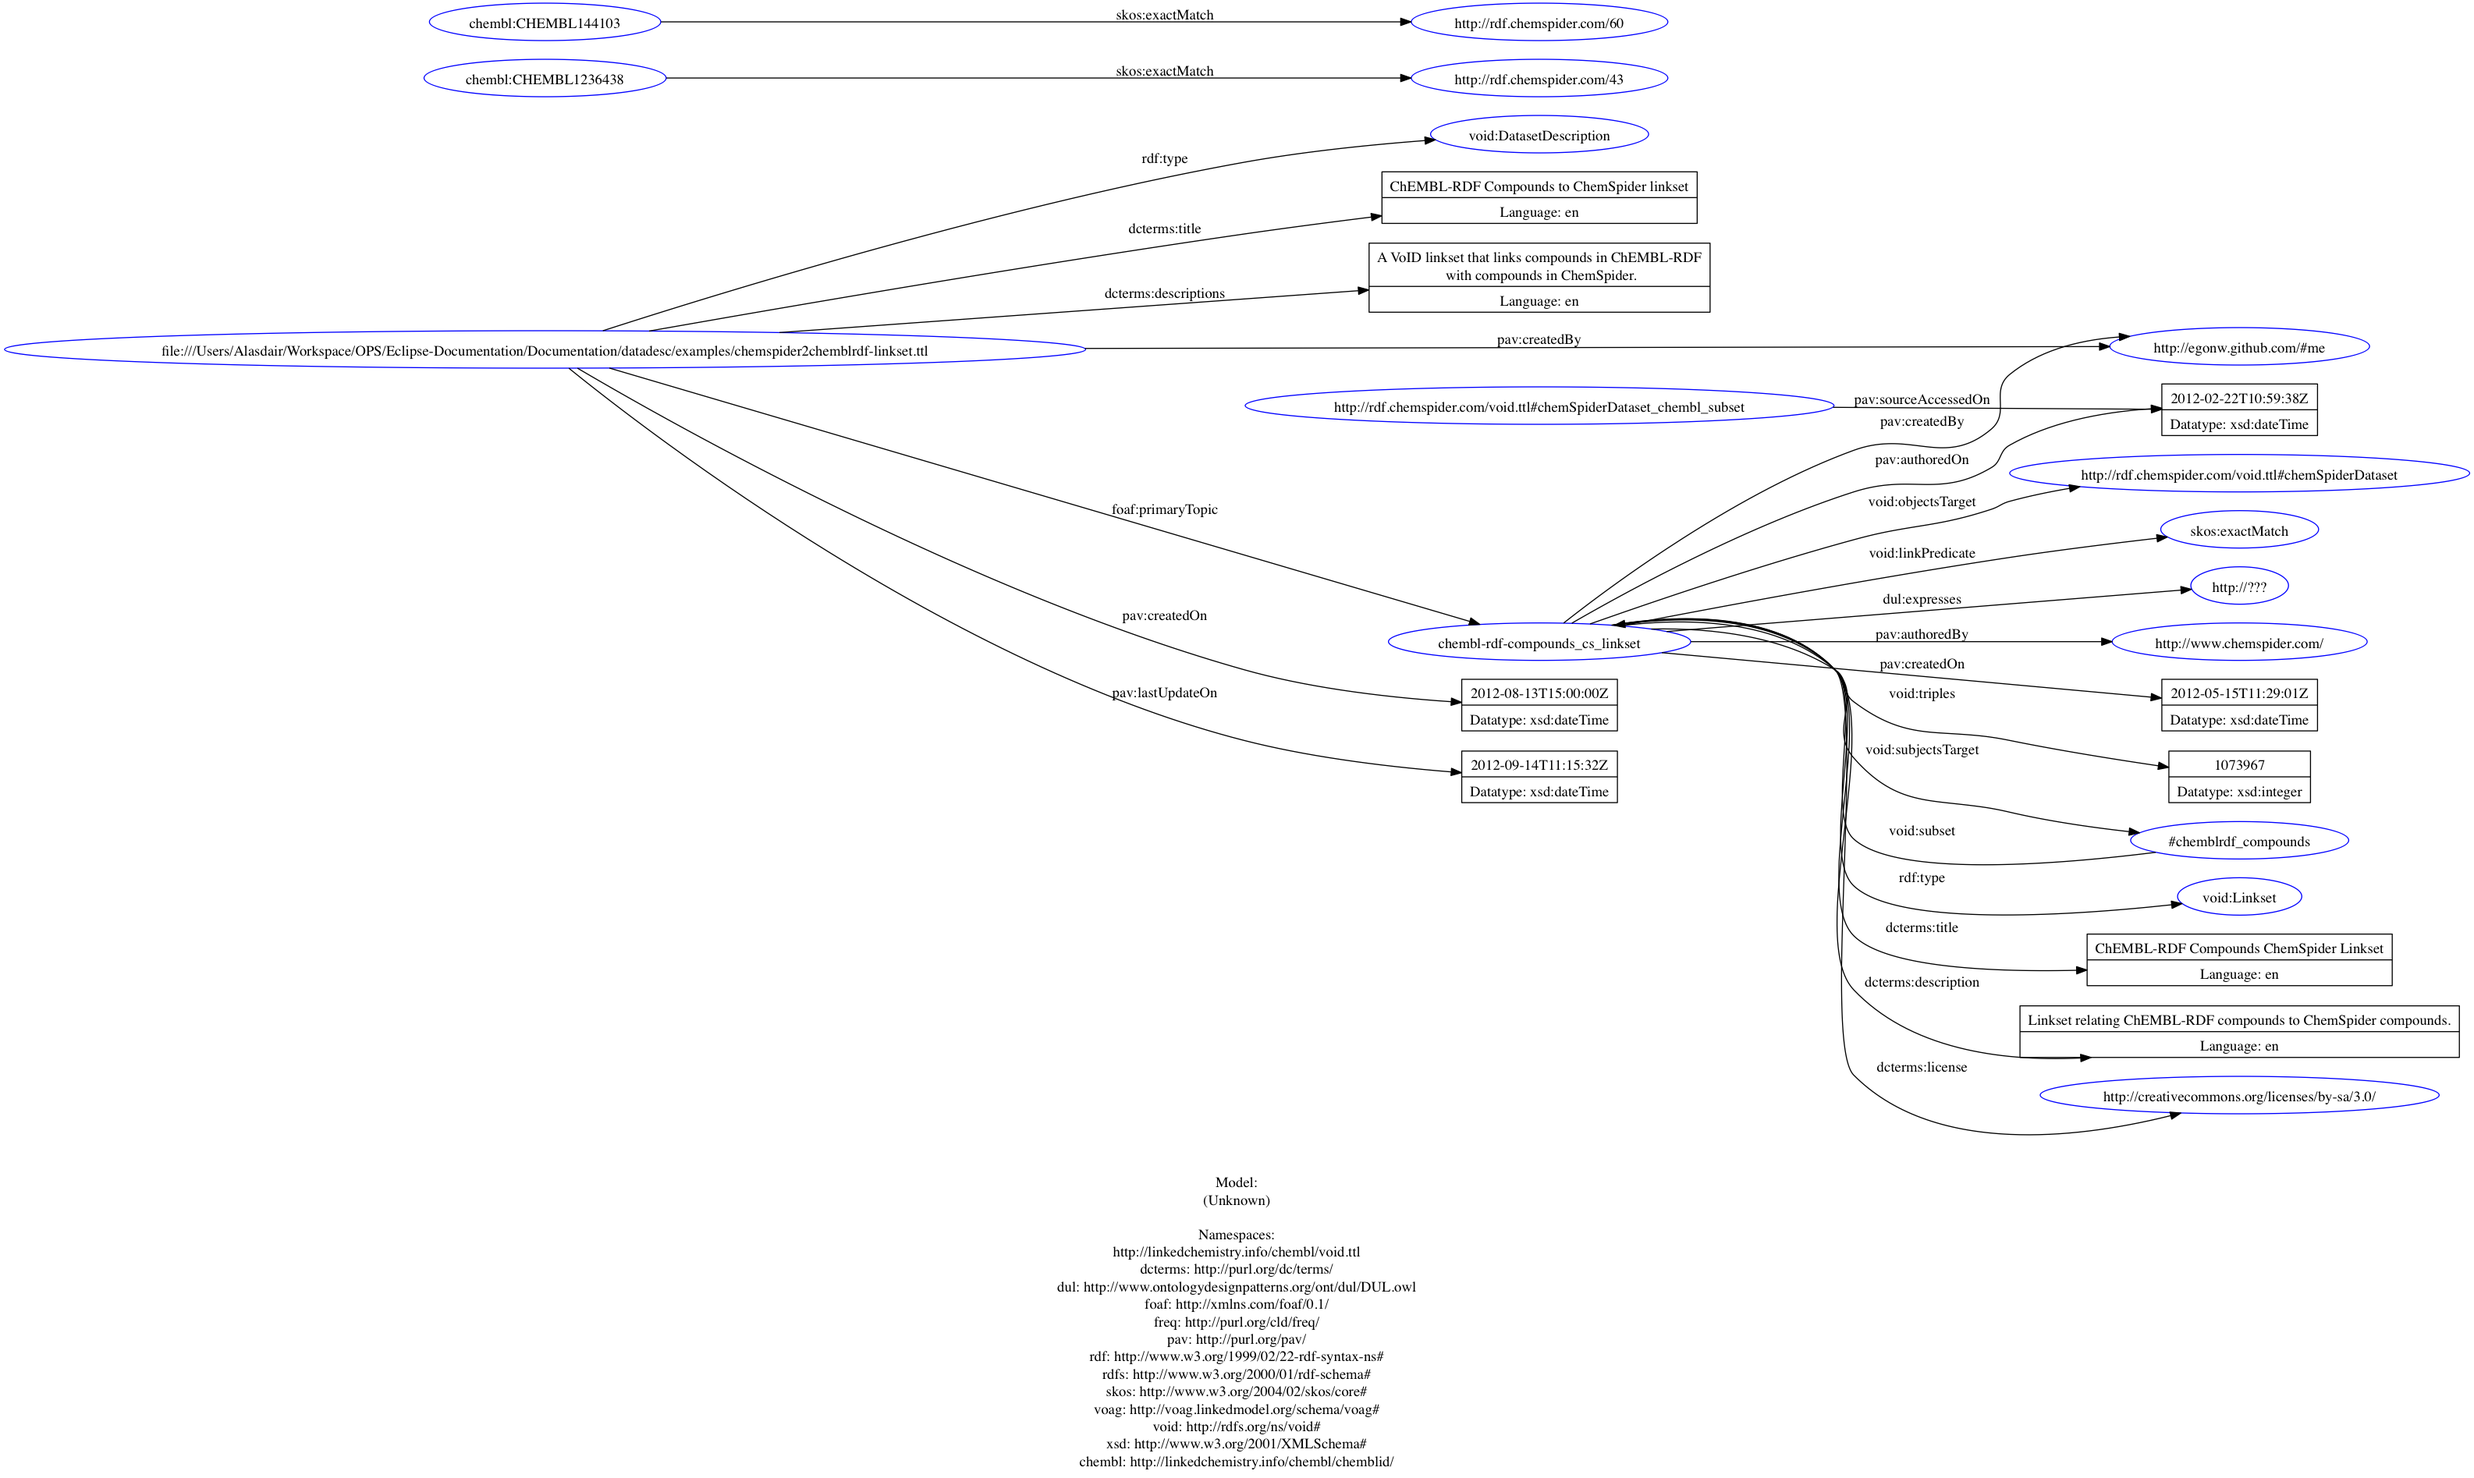
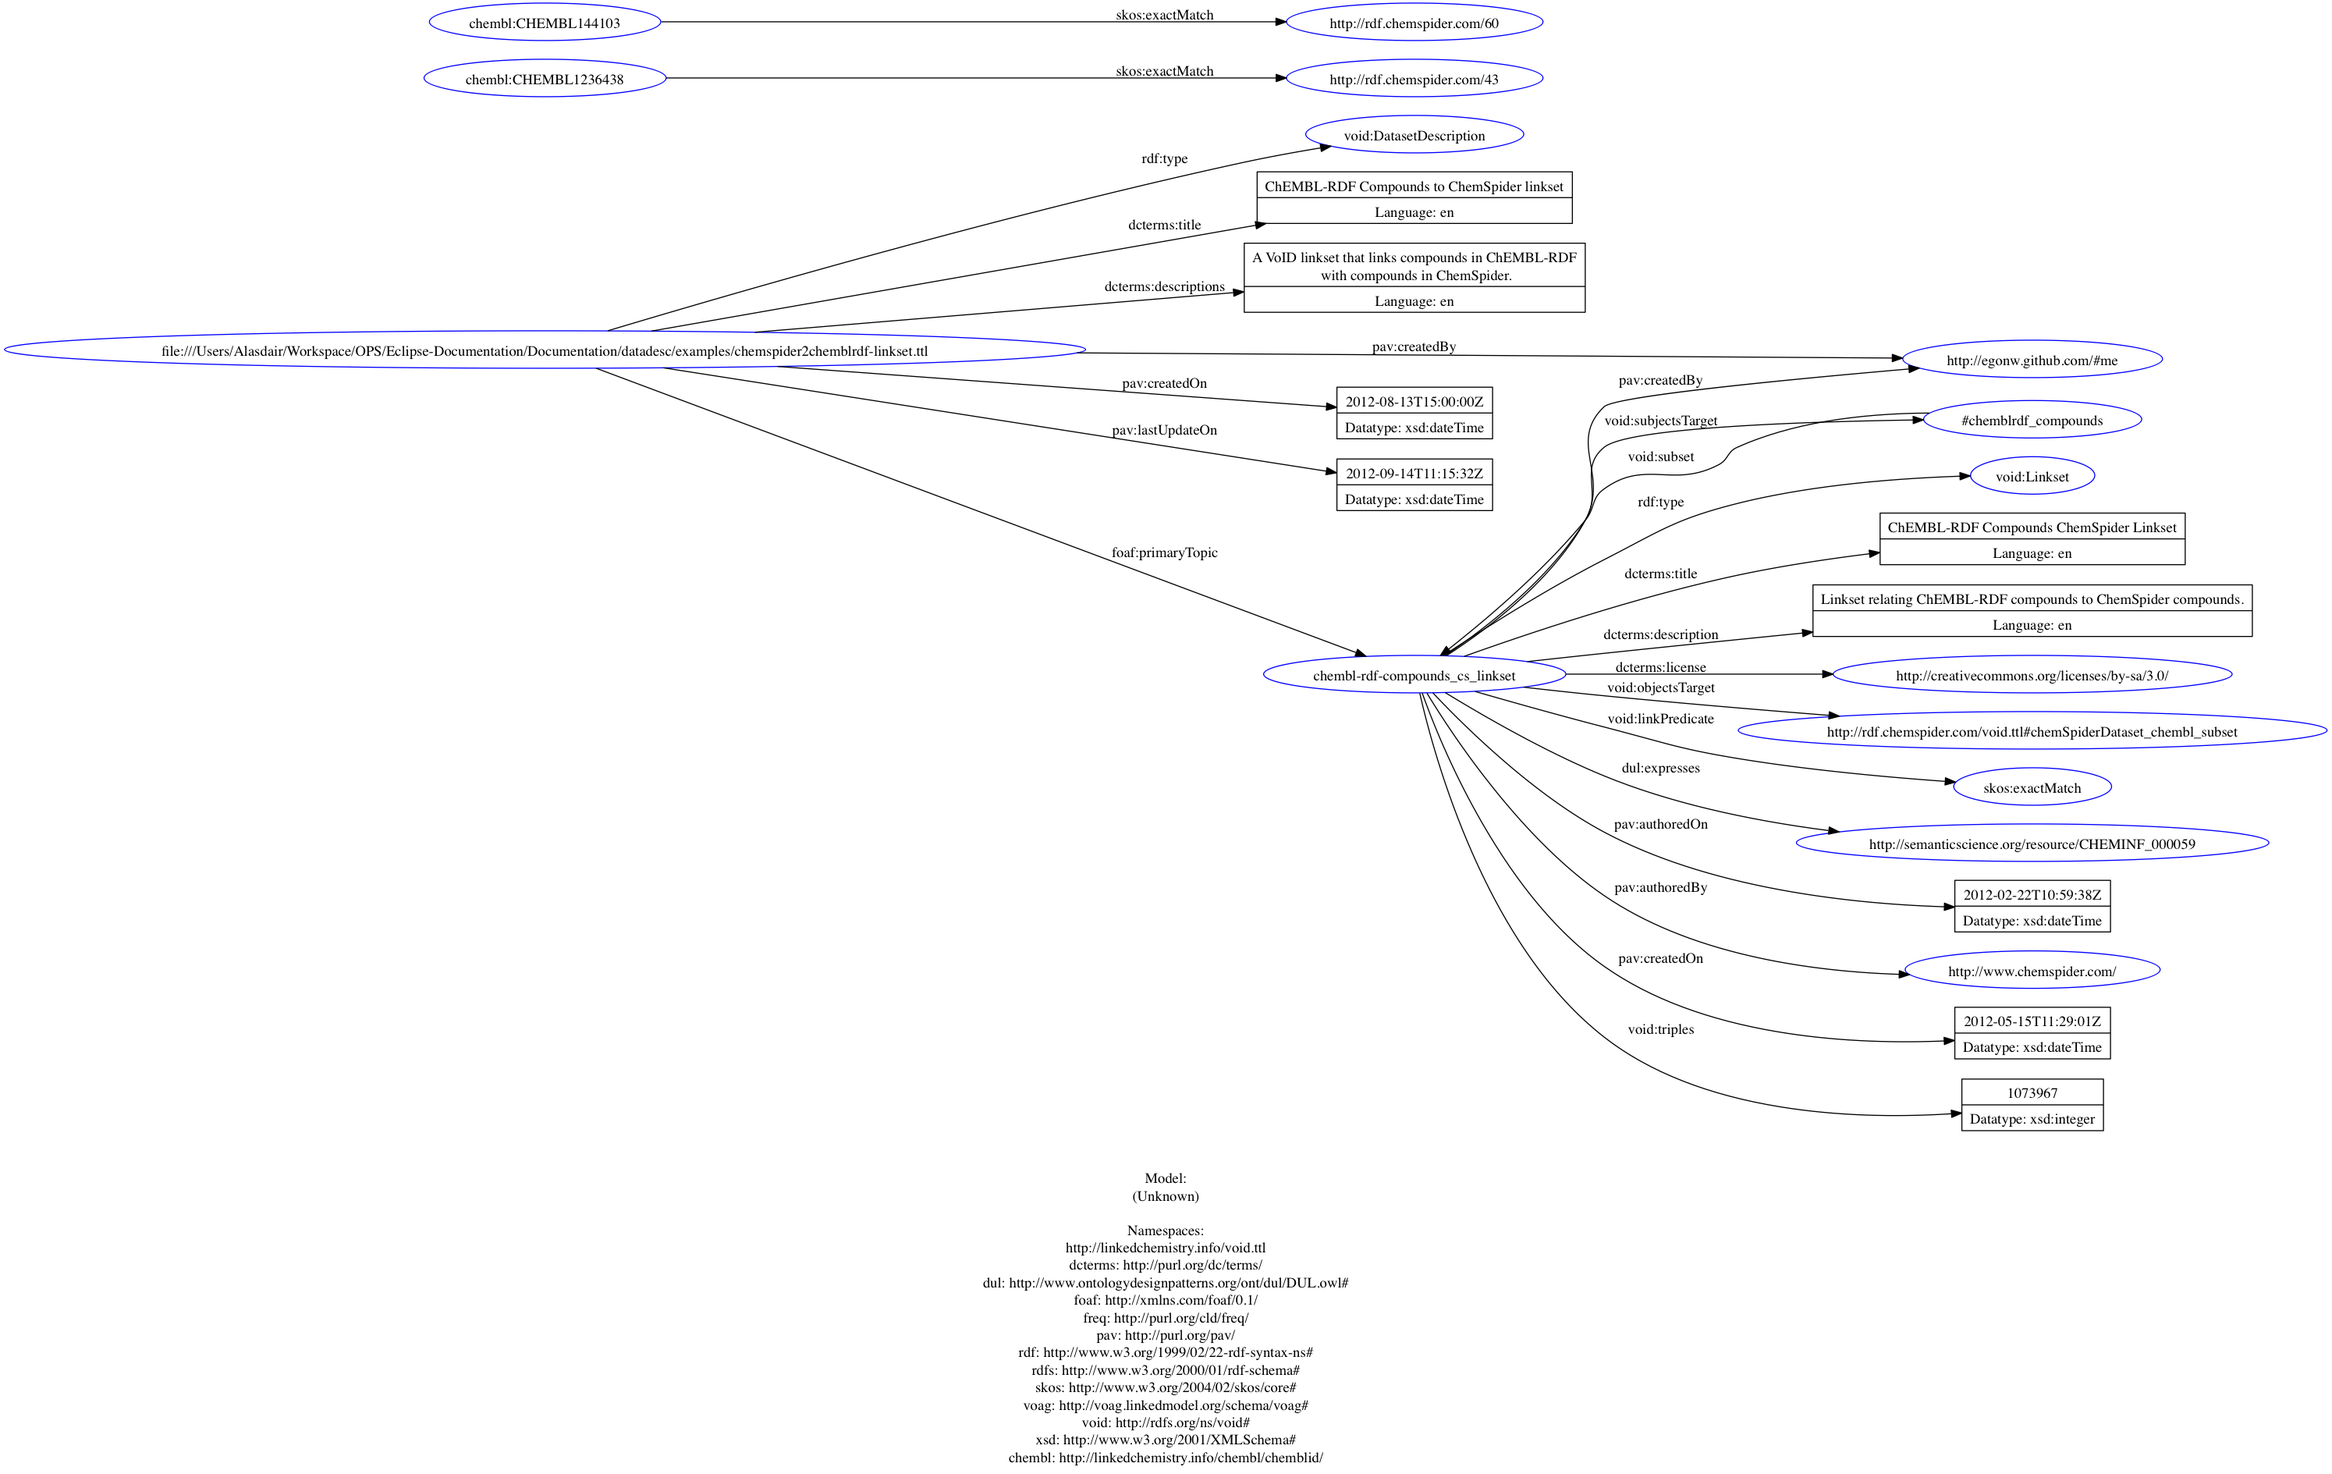
RESOLVED - issue DOC-133: Validate example files against spec before finalising release https://openphacts2011.atlassian.net/browse/DOC-133

diff --git a/datadesc/index.html b/datadesc/index.html
@@ -15,7 +15,7 @@
 		customcss:            "http://www.openphacts.org/specs/css/ops.css",
 		specStatus:           "ED",
 		shortName:            "datadesc",
-		publishDate:   "2012-10-15",
+		publishDate:   "2012-10-16",
 		previousMaturity: "WD",
 		previousPublishDate:  "2012-08-16",
 		//previousURI : "http://www.cs.manchester.ac.uk/~graya/ops/2012/WD-mappingspec-20120615/",
@@ -1789,8 +1789,8 @@
 	void:uriSpace "http://rdf.chemspider.com/"^^xsd:string;
 #Provenance
 	dcterms:publisher &lt;http://www.chemspider.com/&gt;;
-	dcterms:created "2007-03-01 00:00:00"^^xsd:datetime;
-	dcterms:modified "2012-10-16 00:00:00"^^xsd:datetime;#Subsets
+	dcterms:created "2007-03-01 00:00:00"^^xsd:dateTime;
+	dcterms:modified "2012-10-16 00:00:00"^^xsd:dateTime;#Subsets
 	void:subset :chemSpiderDataset_chembl_subset,:chemSpiderDataset_drugbank_subset;
 #Vocabularies, topics, resources
 	void:vocabulary &lt;http://purl.org/dc/elements/1.1/&gt;,
@@ -1991,7 +1991,7 @@
 @prefix : &lt;http://linkedchemistry.info/void.ttl&gt;.
 
 @prefix dcterms: &lt;http://purl.org/dc/terms/&gt;.
-@prefix dul: &lt;http://www.ontologydesignpatterns.org/ont/dul/DUL.owl&gt; .
+@prefix dul: &lt;http://www.ontologydesignpatterns.org/ont/dul/DUL.owl#&gt; .
 @prefix foaf: &lt;http://xmlns.com/foaf/0.1/&gt; .
 @prefix freq: &lt;http://purl.org/cld/freq/&gt; .
 @prefix pav: &lt;http://purl.org/pav/&gt;.
